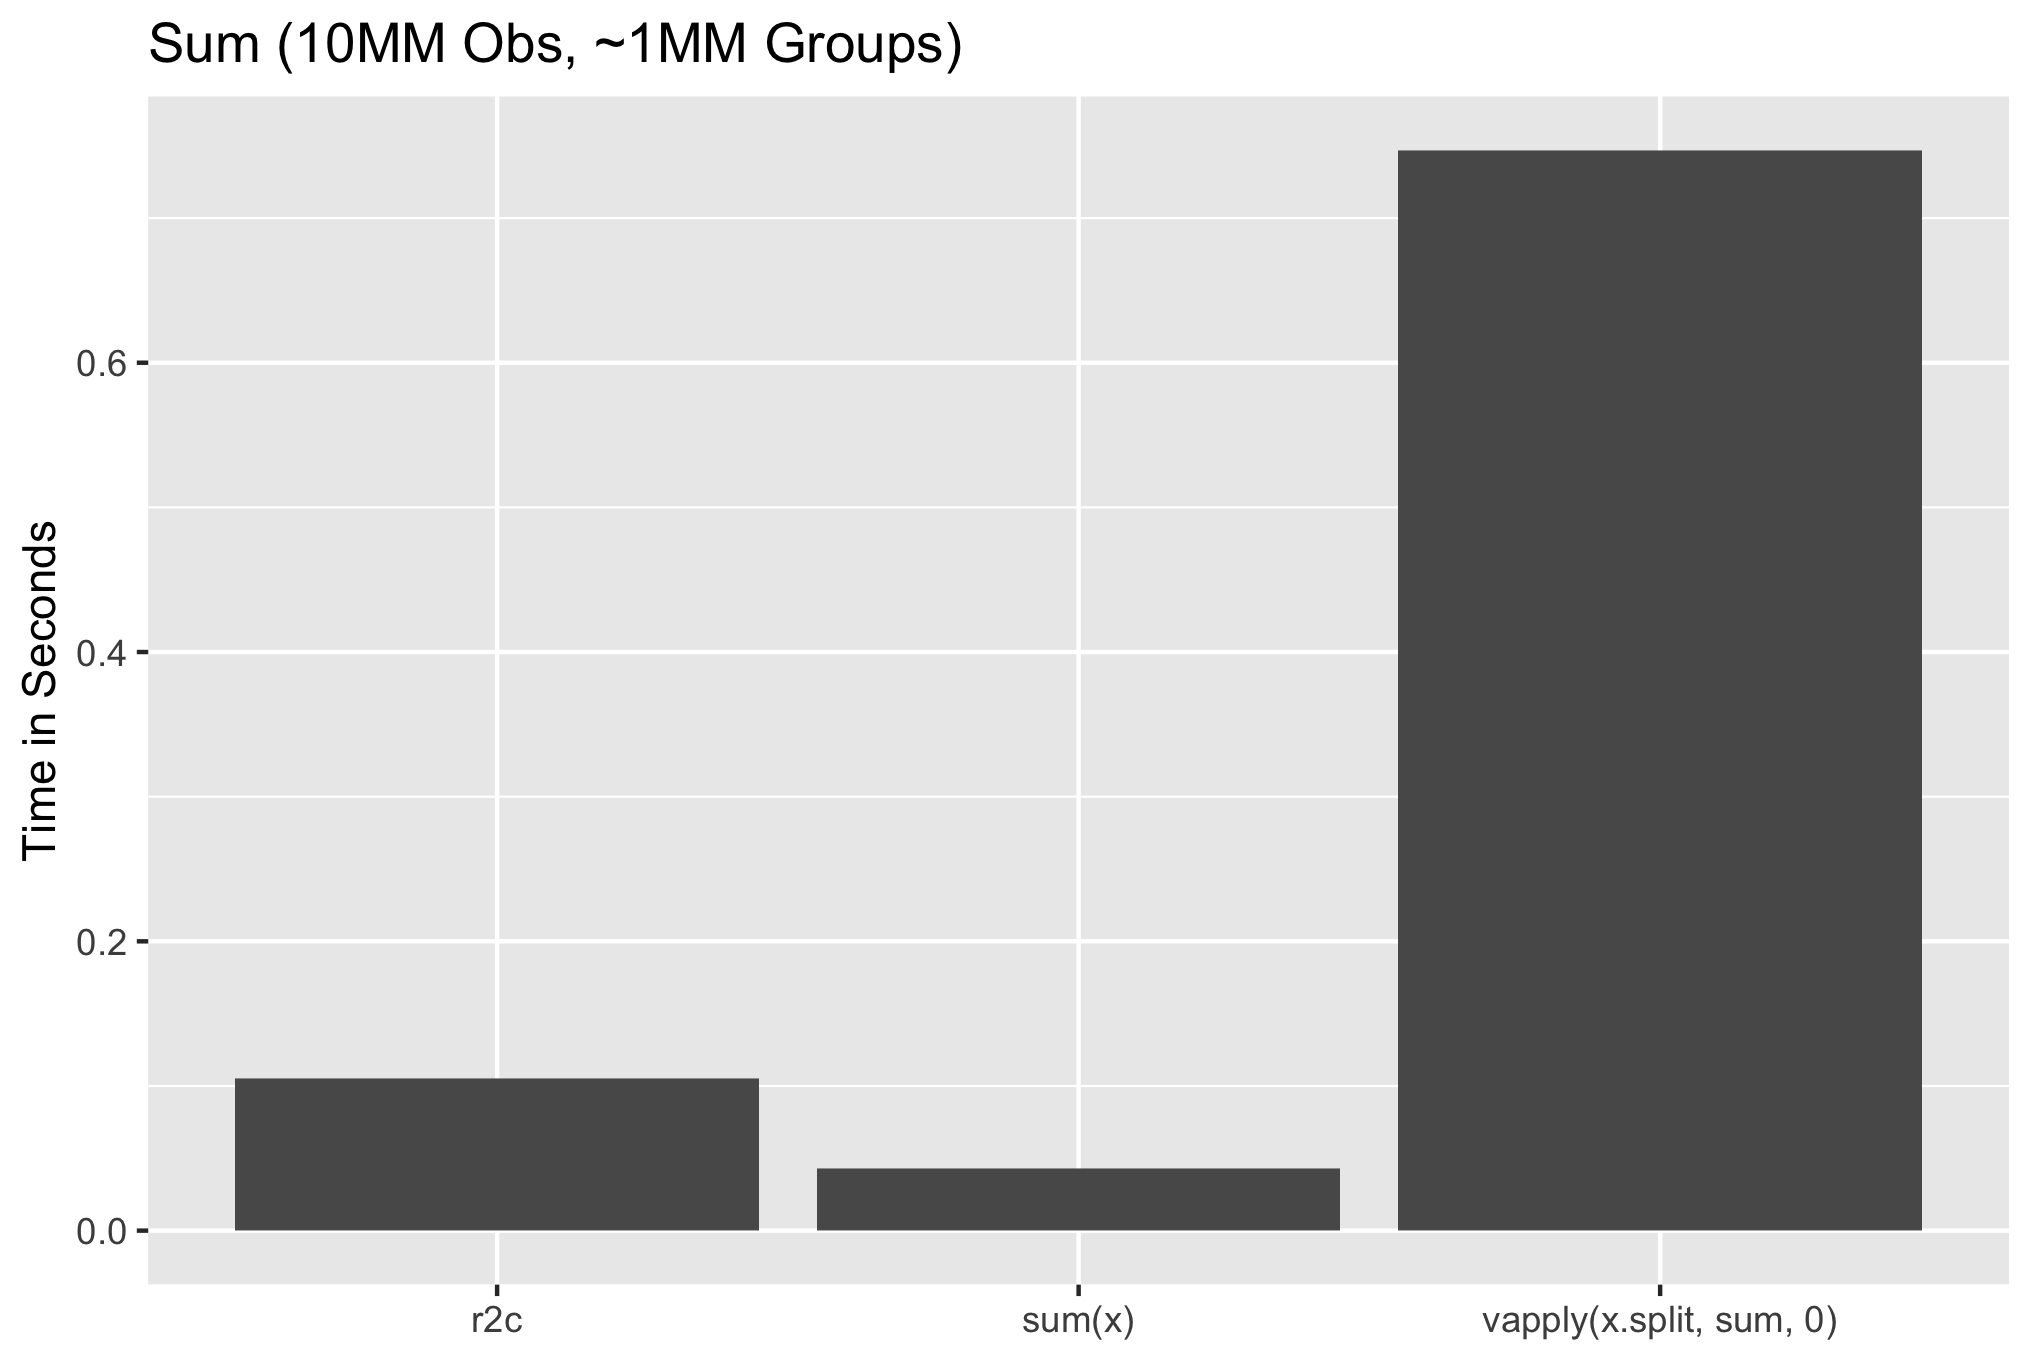
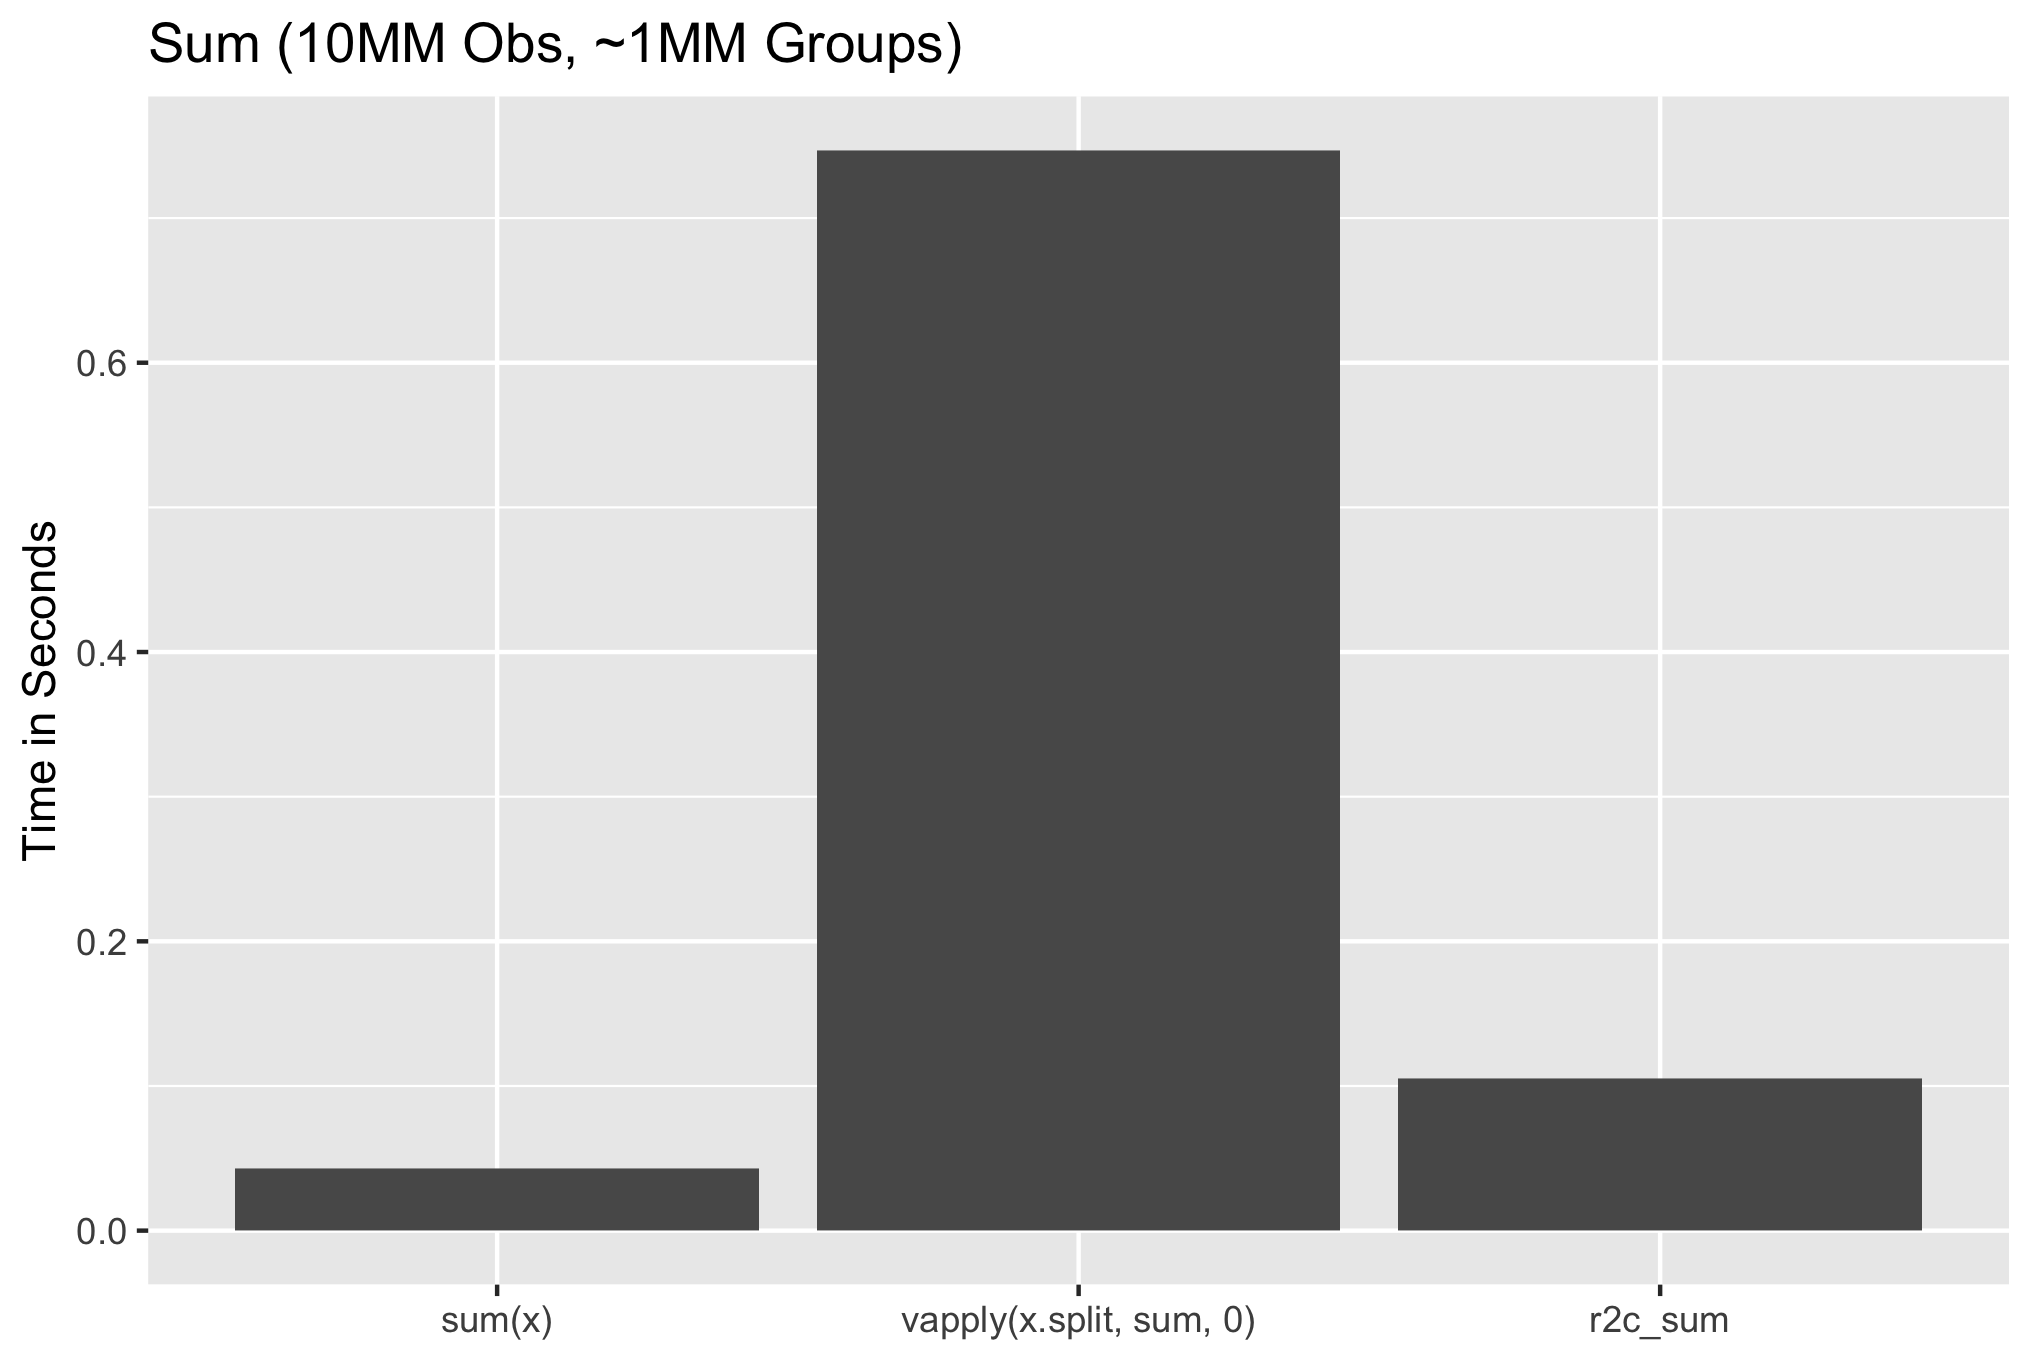
README tweaks

diff --git a/README.md b/README.md
@@ -72,7 +72,7 @@ And now:
 
 <!--
 library(ggplot2)
-Method <- c('sum(x)', 'vapply(x.split, sum, 0)', 'r2c_sum(x)')
+Method <- c('sum(x)', 'vapply(x.split, sum, 0)', 'r2c_sum')
 dat <- data.frame(
   Method=factor(Method, Method),
   time=c(0.043, 0.747, 0.105)
@@ -98,7 +98,6 @@ overhead repeated operations for selected functions like `sum`:
     dt <- data.table(x, g)
     setkey(dt, g)
     system.time(g.sum.dt <- dt[, sum(x), g][['V1']])
-    system.time(g.mean.dt <- dt[, mean(x), g][['V1']])
     ##   user  system elapsed
     ##  0.205   0.027   0.234
     identical(unname(g.sum.r2c), g.sum.dt)
@@ -141,11 +140,10 @@ ggsave("extra/time_sum_r2c-vs-dt.png", p)
 -->
 ![](https://github.com/brodieG/r2c/raw/initial/extra/time_sum_r2c-vs-dt.png)
 
-`data.table` sees a ~8x slowdown, whereas `r2c` is essentially unaffected.
+`data.table` sees a ~8x slowdown, whereas `r2c` is essentially unaffected.  The
+differences get starker as we increase the complexity of the calculation:
 
-Let's take it further by computing the slope of a bivariate regression:
-
-    mean <- mean.default   # to even the odds a little
+    mean <- mean.default   # Avoid S3 dispatch for data.table
     system.time(
       g.slope.dt <- dt[,
         sum((x - mean(x)) * (y - mean(y))) / sum((x - mean(x)) ^ 2), g
@@ -162,10 +160,6 @@ Let's take it further by computing the slope of a bivariate regression:
     identical(unname(g.slope.r2c), g.slope.dt)
     ## [1] TRUE
 
-`data.table` Gforce's Achilles heel is that for complex expressions it falls
-back to normal R evaluation.  `r2c` sticks to native instructions, and thus sees
-a 40x speed-up over `data.table`.
-
 For reference, with `base`:
 
     y.split <- split(y, g)
@@ -180,7 +174,8 @@ For reference, with `base`:
     identical(g.slope.r2c, g.slope.base)
     ## [1] TRUE
 
-To summarize:
+More complex expressions force `data.table` to fallback to standard R
+evaluation, and in this case make it ~40x slower than `r2c`.  To summarize:
 
 <!--
 ```
